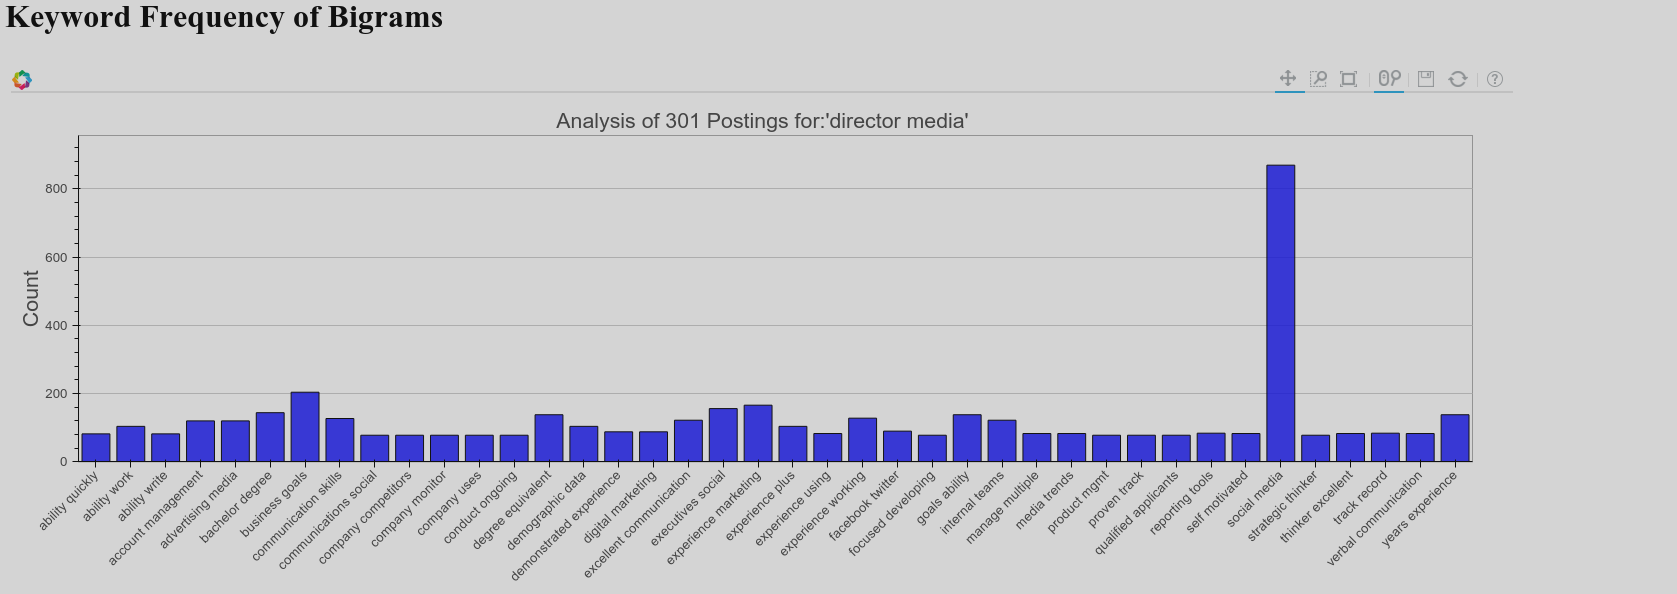
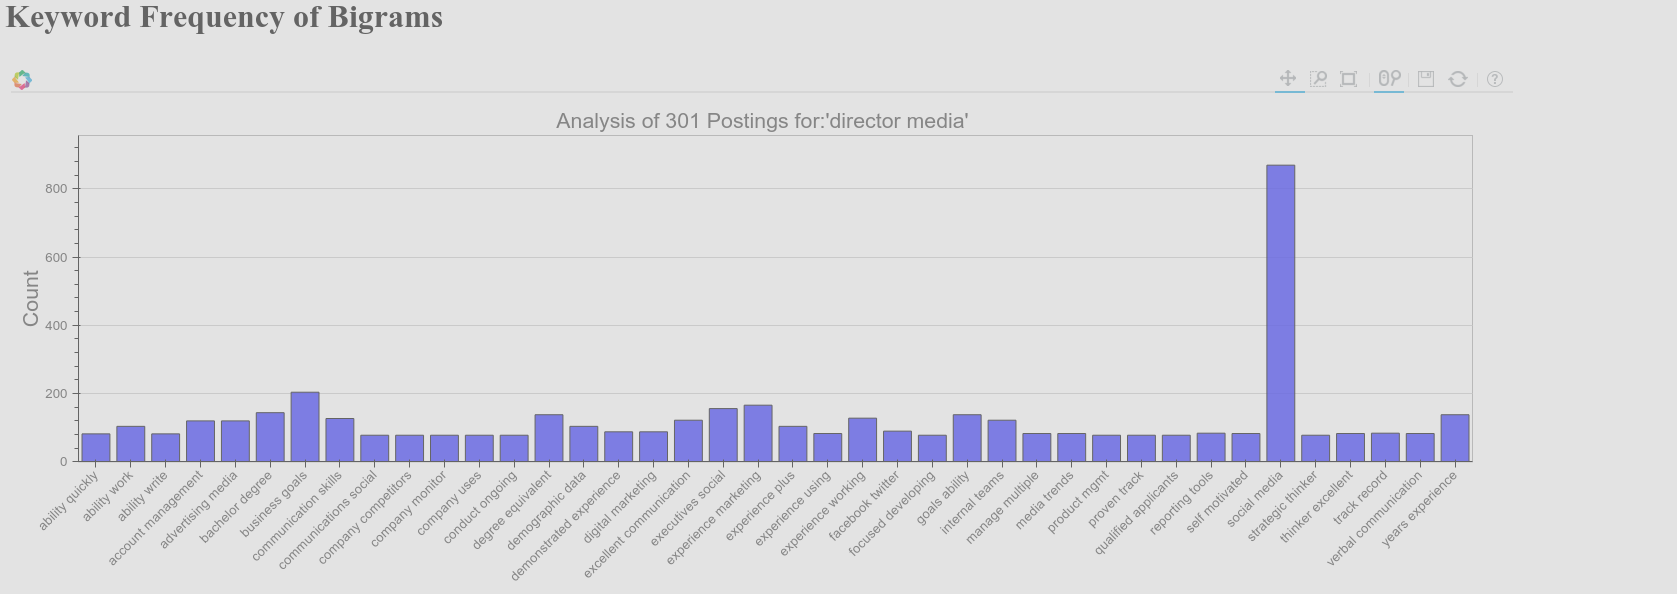
background image added modified bar chart

diff --git a/web_version.py b/web_version.py
@@ -166,6 +166,28 @@ input_template = jinja2.Template('''
       padding-left: 6cm;
        }
       </style>
+
+    <style>
+    html {
+            background: url(static/background.jpg) no-repeat center center fixed;
+            -webkit-background-size: cover;
+            -moz-background-size: cover;
+            -o-background-size: cover;
+            background-size: cover;
+            color: #e5ffff;
+         }
+    </style>
+
+    <style>
+    body {
+            background: url('static/med_dir_300.png') no-repeat fixed;
+            -webkit-background-size: contain;
+            -moz-background-size: contain;
+            -o-background-size: contain;
+            background-size: contain;
+          }
+    </style>
+
 </head>
 
 <body>
